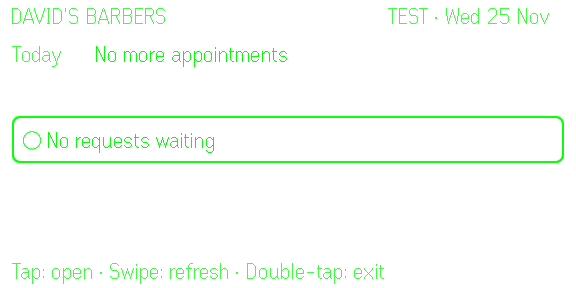
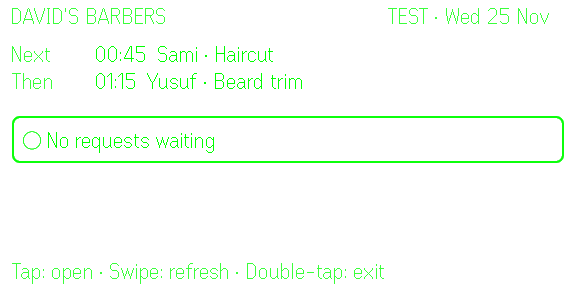
fix(glasses): a receipt's 2 seconds start when it is drawn
From Codex review round 2:
- showReceipt started the 2 s timer at once. If an earlier bridge call
  still held the render queue (slow BLE on hardware), the receipt could
  time out before it was ever drawn. The timer now starts after the
  receipt's first successful draw. New test with a slow bridge,
  mutation-checked.
- The "Done" receipt from an HTTP answer carries the executed key, so a
  later replay of the same action cannot show a second "Done". Expired
  keys are also pruned on receipt traffic, not only after a tap.
- Every fresh snapshot logs "state seq=N", so the live runner can tell a
  real reconnect from the cached root shown while reconnecting.

Full simulator e2e: PASS.

diff --git a/apps/glasses/src/app.ts b/apps/glasses/src/app.ts
@@ -251,6 +251,10 @@ export class ChairsideApp {
         this.p.log(
           `receipt title=${view.title}${view.key ? ` key=${view.key}` : ''}`,
         )
+        // Its 2 s start once it is on the glasses: a slow bridge must not let
+        // a receipt time out before anyone could read it.
+        if (this.view === view)
+          this.setTimer('receipt', RECEIPT_MS, () => this.advance())
       }
       if (card) {
         const key = `${card.requestId}:${card.version}`
@@ -532,6 +536,9 @@ export class ChairsideApp {
 
   private onFrame(frame: ServerFrame): void {
     if (frame.type === 'state') {
+      // A fresh snapshot from the server (on connect and on refresh), as
+      // opposed to the cached root shown while reconnecting.
+      this.p.log(`state seq=${frame.seq}`)
       this.lastSeq = frame.seq
       this.root = frame.root
       const test = frame.root.mode === 'test'
@@ -557,6 +564,7 @@ export class ChairsideApp {
           this.cards = this.cards.filter((c) => c.requestId !== frame.requestId)
           break
         case 'receipt': {
+          this.pruneKeys()
           const key = frame.idempotencyKey
           if (key !== undefined && this.inflight?.key === key) {
             // This device's action, answered by broadcast before HTTP: keep
@@ -587,6 +595,14 @@ export class ChairsideApp {
         this.ownKeys.has(idempotencyKey) || this.shownKeys.has(idempotencyKey)
       )
     return this.ownAction(requestId)
+  }
+
+  /** Forgets action keys older than KEY_MEMORY_MS, also on a device that never taps. */
+  private pruneKeys(): void {
+    const now = this.p.now()
+    for (const keys of [this.ownKeys, this.shownKeys])
+      for (const [key, at] of keys)
+        if (now - at >= KEY_MEMORY_MS) keys.delete(key)
   }
 
   private ownAction(requestId: string | undefined): boolean {
@@ -682,8 +698,9 @@ export class ChairsideApp {
   ) {
     this.view = { name: 'receipt', ...receipt }
     if (receipt.key) this.shownKeys.set(receipt.key, this.p.now())
+    // The timer starts when this receipt is drawn (see render()).
+    this.clearTimer('receipt')
     this.render()
-    this.setTimer('receipt', RECEIPT_MS, () => this.advance())
   }
 
   private advance(): void {
@@ -757,9 +774,7 @@ export class ChairsideApp {
       const now = this.p.now()
       for (const [id, at] of this.recent)
         if (now - at >= OWN_RECEIPT_WINDOW_MS) this.recent.delete(id)
-      for (const keys of [this.ownKeys, this.shownKeys])
-        for (const [key, at] of keys)
-          if (now - at >= KEY_MEMORY_MS) keys.delete(key)
+      this.pruneKeys()
       if (answered) {
         this.recent.set(requestId, now)
         this.ownKeys.set(idempotencyKey, now)
@@ -778,25 +793,27 @@ export class ChairsideApp {
     if (executed !== idempotencyKey) this.ownKeys.set(executed, this.p.now())
     this.receipts = this.receipts.filter((r) => r.key !== executed)
     this.p.log(`action result req=${requestId} status=${response.status}`)
-    this.applyResult(card, response, this.shownKeys.has(executed))
+    this.applyResult(card, response, executed)
   }
 
+  /** `executed` is the key of the action that ran (another device's, on a replay). */
   private applyResult(
     card: Card,
     response: ActionResponse,
-    alreadyShown = false,
+    executed?: string,
   ): void {
     const { requestId } = card
     const who = card.lines[0]
     if (response.status === 'ok') {
       this.cards = this.cards.filter((c) => c.requestId !== requestId)
-      if (alreadyShown) {
+      if (executed !== undefined && this.shownKeys.has(executed)) {
         // Another device's identical tap: its receipt is already shown.
         this.view = { name: 'root' }
         this.reconcile()
         return
       }
       this.showReceipt({
+        key: executed,
         title: 'Done',
         text: response.receipt ?? '● Done',
         detail: who,

diff --git a/apps/glasses/tests/app.test.ts b/apps/glasses/tests/app.test.ts
@@ -524,7 +524,41 @@ describe('cards', () => {
     expect(env.page().screen).toBe('root')
     expect(
       env.logs.filter((line) => line.startsWith('receipt title=')),
-    ).toEqual(['receipt title=Done'])
+    ).toEqual(['receipt title=Done key=other-device-key-0001'])
+  })
+
+  it('counts a receipt\'s 2 s from when the glasses draw it, not from when it was queued', async () => {
+    const env = await paired()
+    env.live().onFrame({ type: 'card.upsert', seq: 2, card }, 'socket')
+    await settle()
+    // The bridge is slow: the next draw hangs until we release it.
+    const show = env.platform.show
+    let release: () => void = () => {}
+    env.platform.show = (page, menu) =>
+      new Promise<void>((resolve) => {
+        release = () => {
+          void show(page, menu).then(resolve)
+        }
+      })
+    env.api.action.mockResolvedValue({
+      httpStatus: 200,
+      response: { status: 'ok', receipt: '● Booked Sat 28 Nov 15:00' },
+    })
+    env.app.handleEvent(listClick(0))
+    await settle()
+    // Long past 2 s, but the receipt was never drawn: it must still be pending.
+    await vi.advanceTimersByTimeAsync(RECEIPT_MS * 3)
+    expect(env.logs.some((line) => line.startsWith('receipt title='))).toBe(false)
+    env.platform.show = show
+    release()
+    await settle()
+    expect(
+      env.logs.some((line) => line.startsWith('receipt title=Done key=')),
+    ).toBe(true)
+    expect(env.page().screen).toBe('receipt')
+    await vi.advanceTimersByTimeAsync(RECEIPT_MS)
+    await settle()
+    expect(env.page().screen).toBe('root')
   })
 
   it('ignores deltas older than the last state', async () => {

diff --git a/docs/evidence/e2e-full.md b/docs/evidence/e2e-full.md
@@ -1,48 +1,48 @@
 # Simulator e2e: full run (US-011)
 
-Run 2026-11-25T19:58:21.422Z by `npm run e2e` (`e2e/run.mjs`): backend in TEST MODE (`DEV_INJECT=1`, fake Telegram, fake calendar, fresh temp database), Vite dev server, evenhub-simulator 0.9.5 with `--automation-port 9898`, SDK 0.0.16, Node v24.13.0 on win32. Simulator only: nothing here ran on G2 hardware or against real Telegram or Google.
+Run 2026-11-25T20:29:14.890Z by `npm run e2e` (`e2e/run.mjs`): backend in TEST MODE (`DEV_INJECT=1`, fake Telegram, fake calendar, fresh temp database), Vite dev server, evenhub-simulator 0.9.5 with `--automation-port 9898`, SDK 0.0.16, Node v24.13.0 on win32. Simulator only: nothing here ran on G2 hardware or against real Telegram or Google.
 
 Result: **PASS**
 
 ## Steps
 
-01. **pair**: first run shows the pairing steps and a 6-character code. 4165 lit px. ![pair](e2e-full-01-pair.png)
-02. **root**: paired in 1755 ms; root shows Next/Then and no requests. 5330 lit px. ![root](e2e-full-02-root.png)
-03. **root-tap-feedback**: tap on root with nothing waiting shows feedback. 5447 lit px. ![root-tap-feedback](e2e-full-03-root-tap-feedback.png)
-04. **menu**: the system contextual menu shows Refresh and Pause cards 30 min. 3600 lit px. ![menu](e2e-full-04-menu.png)
-05. **paused**: Pause cards 30 min: root says cards are paused. 5620 lit px. ![paused](e2e-full-05-paused.png)
-06. **card**: DM to card in 2718 ms (2.5 s debounce included); smart default highlighted. 3992 lit px. ![card](e2e-full-06-card.png)
-07. **receipt**: tap to receipt in 156 ms. 4532 lit px. ![receipt](e2e-full-07-receipt.png)
-08. **root-after-booking**: the receipt advanced to root by itself after 2 s. 5330 lit px. ![root-after-booking](e2e-full-08-root-after-booking.png)
+01. **pair**: first run shows the pairing steps and a 6-character code. 4131 lit px. ![pair](e2e-full-01-pair.png)
+02. **root**: paired in 1775 ms; root shows Next/Then and no requests. 5821 lit px. ![root](e2e-full-02-root.png)
+03. **root-tap-feedback**: tap on root with nothing waiting shows feedback. 5938 lit px. ![root-tap-feedback](e2e-full-03-root-tap-feedback.png)
+04. **menu**: the system contextual menu shows Refresh and Pause cards 30 min. 3628 lit px. ![menu](e2e-full-04-menu.png)
+05. **paused**: Pause cards 30 min: root says cards are paused. 6115 lit px. ![paused](e2e-full-05-paused.png)
+06. **card**: DM to card in 2724 ms (2.5 s debounce included); smart default highlighted. 3992 lit px. ![card](e2e-full-06-card.png)
+07. **receipt**: tap to receipt in 164 ms. 4532 lit px. ![receipt](e2e-full-07-receipt.png)
+08. **root-after-booking**: the receipt advanced to root by itself after 2 s. 5821 lit px. ![root-after-booking](e2e-full-08-root-after-booking.png)
 09. **card-before-block**: the 17:00 card shows the slot free. 3990 lit px. ![card-before-block](e2e-full-09-card-before-block.png)
 10. **slot-taken**: slot_taken card: header says nothing was sent, first action offers the next opening. 4605 lit px. ![slot-taken](e2e-full-10-slot-taken.png)
-11. **root-pending**: double-tap on the card went back to root; 1 request waiting. 5702 lit px. ![root-pending](e2e-full-11-root-pending.png)
-12. **status**: backend stopped: status screen after 1119 ms. 4743 lit px. ![status](e2e-full-12-status.png)
-13. **root-reconnected**: backend back: root again after 329 ms ([chairside] link=live). 5702 lit px. ![root-reconnected](e2e-full-13-root-reconnected.png)
+11. **root-pending**: double-tap on the card went back to root; 1 request waiting. 6193 lit px. ![root-pending](e2e-full-11-root-pending.png)
+12. **status**: backend stopped: status screen after 1098 ms. 4743 lit px. ![status](e2e-full-12-status.png)
+13. **root-reconnected**: backend back: root again after 165 ms ([chairside] link=polling). 5702 lit px. ![root-reconnected](e2e-full-13-root-reconnected.png)
 14. **exit**: root double-tap: shutDownPageContainer(1) requested. 0 lit px. ![exit](e2e-full-14-exit.png)
 
 ## Checks
 
-- [x] [chairside] ready within 10 s (819 ms)
-- [x] e2e-full-01-pair.png has more than 500 lit pixels (got 4165)
+- [x] [chairside] ready within 10 s (1033 ms)
+- [x] e2e-full-01-pair.png has more than 500 lit pixels (got 4131)
 - [x] /dev/pair bound the code on screen
-- [x] e2e-full-02-root.png has more than 500 lit pixels (got 5330)
-- [x] e2e-full-03-root-tap-feedback.png has more than 500 lit pixels (got 5447)
-- [x] e2e-full-05-paused.png has more than 500 lit pixels (got 5620)
+- [x] e2e-full-02-root.png has more than 500 lit pixels (got 5821)
+- [x] e2e-full-03-root-tap-feedback.png has more than 500 lit pixels (got 5938)
+- [x] e2e-full-05-paused.png has more than 500 lit pixels (got 6115)
 - [x] every rebuild carries the menu: after pausing it reads "Resume cards"
 - [x] e2e-full-06-card.png has more than 500 lit pixels (got 3992)
-- [x] booking answered ok ([chairside] action result req=6315a578-84a8-4803-8097-8ee2fb2683a6 status=ok)
+- [x] booking answered ok ([chairside] action result req=a3e5c478-5d67-4c32-961d-6edc0c619d94 status=ok)
 - [x] e2e-full-07-receipt.png has more than 500 lit pixels (got 4532)
 - [x] the tap made exactly 1 fake Telegram send (got 1)
 - [x] the tap made exactly 1 fake calendar event (got 1)
 - [x] the event is "Chairside · Anna · Skin fade" at 2026-11-28T11:00:00.000Z (got Chairside · Anna · Skin fade at 2026-11-28T11:00:00.000Z)
-- [x] e2e-full-08-root-after-booking.png has more than 500 lit pixels (got 5330)
+- [x] e2e-full-08-root-after-booking.png has more than 500 lit pixels (got 5821)
 - [x] e2e-full-09-card-before-block.png has more than 500 lit pixels (got 3990)
-- [x] the tap answered slot_taken ([chairside] action result req=83834145-8c24-4fb4-8f80-44271e04afb9 status=slot_taken)
+- [x] the tap answered slot_taken ([chairside] action result req=916d26bb-f9df-4e52-8271-22c6f5e343c7 status=slot_taken)
 - [x] e2e-full-10-slot-taken.png has more than 500 lit pixels (got 4605)
 - [x] the stale tap made 0 fake sends (got 0)
 - [x] the stale tap made 0 fake events (got 0)
-- [x] e2e-full-11-root-pending.png has more than 500 lit pixels (got 5702)
+- [x] e2e-full-11-root-pending.png has more than 500 lit pixels (got 6193)
 - [x] e2e-full-12-status.png has more than 500 lit pixels (got 4743)
 - [x] the restart did not ask to pair again
 - [x] e2e-full-13-root-reconnected.png has more than 500 lit pixels (got 5702)
@@ -50,11 +50,11 @@ Result: **PASS**
 
 ## Details
 
-- Root appointments seeded for the screenshot: none (too close to midnight in the shop time zone).
+- Root appointments seeded for the screenshot: Sami, Yusuf.
 - Clocks: Next/Then and card times are shop-local (Asia/Dubai, from the server); the header date and the "paused until" time are device-local. This machine runs at UTC-5, so they differ here; on a phone in the shop they agree.
-- Contextual menu: `context_menu` opened the system menu with the page's items; `down` + `click` chose "Pause cards 30 min" and the next rebuild carried the menu as "Resume cards"; choosing it again resumed cards (the rebuild carried "Pause cards 30 min" again). App lines while resuming: `[chairside] lifecycle foreground_exit`, `[chairside] lifecycle foreground_enter`, `[chairside] link=connecting`, `[chairside] link=live`, `[chairside] menu item=2`.
-- Booking: request `6315a578-84a8-4803-8097-8ee2fb2683a6`, action `ab1e66dd2a9d4a33879ff9467e3a4aa0`; fake calendar event `82q16p9t2q55b7fh0anjp7mfll` "Chairside · Anna · Skin fade" 2026-11-28T11:00:00.000Z to 2026-11-28T11:45:00.000Z; fake Telegram `sendText` to chat 645804757, message 1 (the fake keeps only a SHA-256 of the text).
-- Timings: pair 1755 ms; DM to card 2718 ms (includes the 2.5 s debounce); tap to answer 156 ms.
-- Stale slot: request `83834145-8c24-4fb4-8f80-44271e04afb9`; a 30-minute foreign block inserted at 2026-11-28T13:00:00.000Z while the card was on screen; the tap answered `slot_taken` with card version 2; fake sends and events unchanged.
-- Reconnect: status screen 1119 ms after the backend stopped; root again 329 ms after it restarted (same database and pepper), without re-pairing. App lines: `[chairside] link=live`.
+- Contextual menu: `context_menu` opened the system menu with the page's items; `down` + `click` chose "Pause cards 30 min" and the next rebuild carried the menu as "Resume cards"; choosing it again resumed cards (the rebuild carried "Pause cards 30 min" again). App lines while resuming: `[chairside] lifecycle foreground_exit`, `[chairside] lifecycle foreground_enter`, `[chairside] link=connecting`, `[chairside] link=live`, `[chairside] state seq=3`, `[chairside] menu item=2`.
+- Booking: request `a3e5c478-5d67-4c32-961d-6edc0c619d94`, action `64c250a5f2084d75a11560e46529fc6e`; fake calendar event `nthgstk0e852jnu0ev0oufhljm` "Chairside · Anna · Skin fade" 2026-11-28T11:00:00.000Z to 2026-11-28T11:45:00.000Z; fake Telegram `sendText` to chat 645804757, message 1 (the fake keeps only a SHA-256 of the text).
+- Timings: pair 1775 ms; DM to card 2724 ms (includes the 2.5 s debounce); tap to answer 164 ms.
+- Stale slot: request `916d26bb-f9df-4e52-8271-22c6f5e343c7`; a 30-minute foreign block inserted at 2026-11-28T13:00:00.000Z while the card was on screen; the tap answered `slot_taken` with card version 2; fake sends and events unchanged.
+- Reconnect: status screen 1098 ms after the backend stopped; root again 165 ms after it restarted (same database and pepper), without re-pairing. App lines: `[chairside] link=polling`.
 - Exit: the app logged `[chairside] exit dialog requested` and called `shutDownPageContainer(1)`. Lit pixels 5702 before, 0 after (changed box x 12..563, y 8..283). Simulator log: `ShutDownPageContainer`, `inject_input: no active event container`. evenhub-simulator 0.9.5 draws no system exit dialog: it removes the page and ignores later input (docs/SPIKES.md S3), so the dialog and its cancel gesture need G2 hardware.
